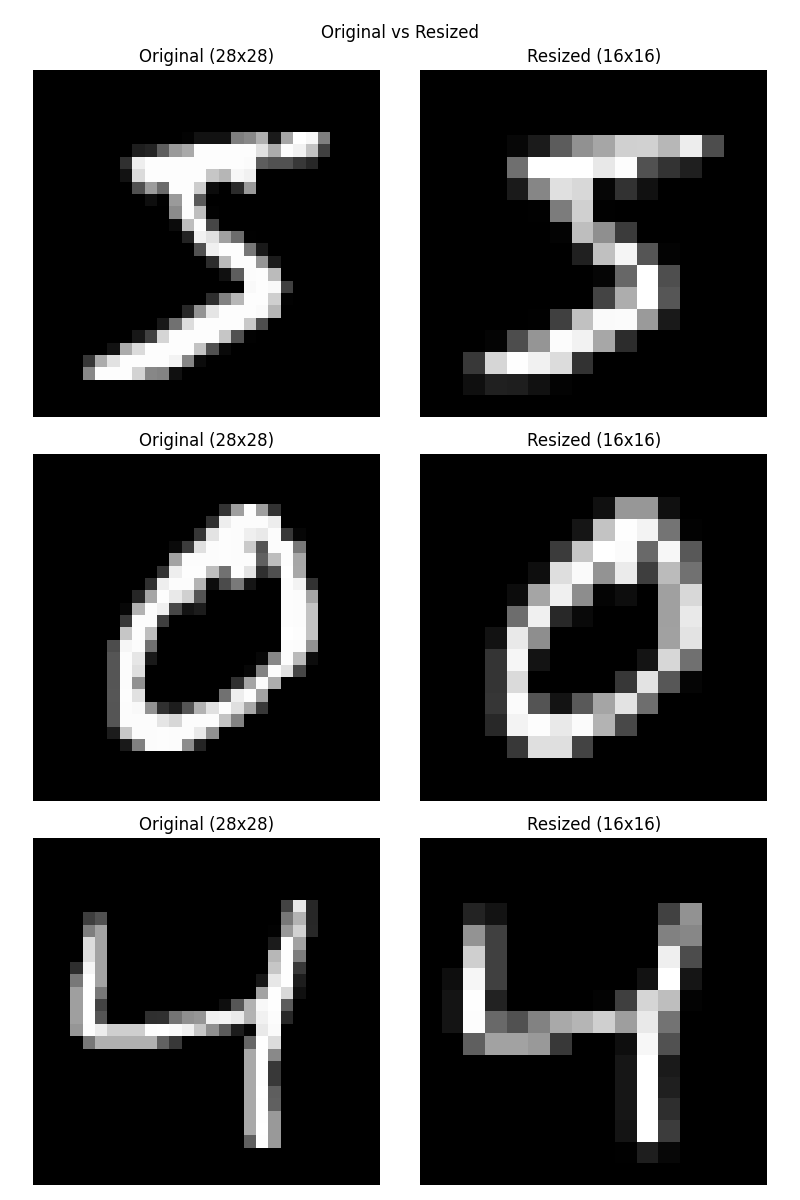
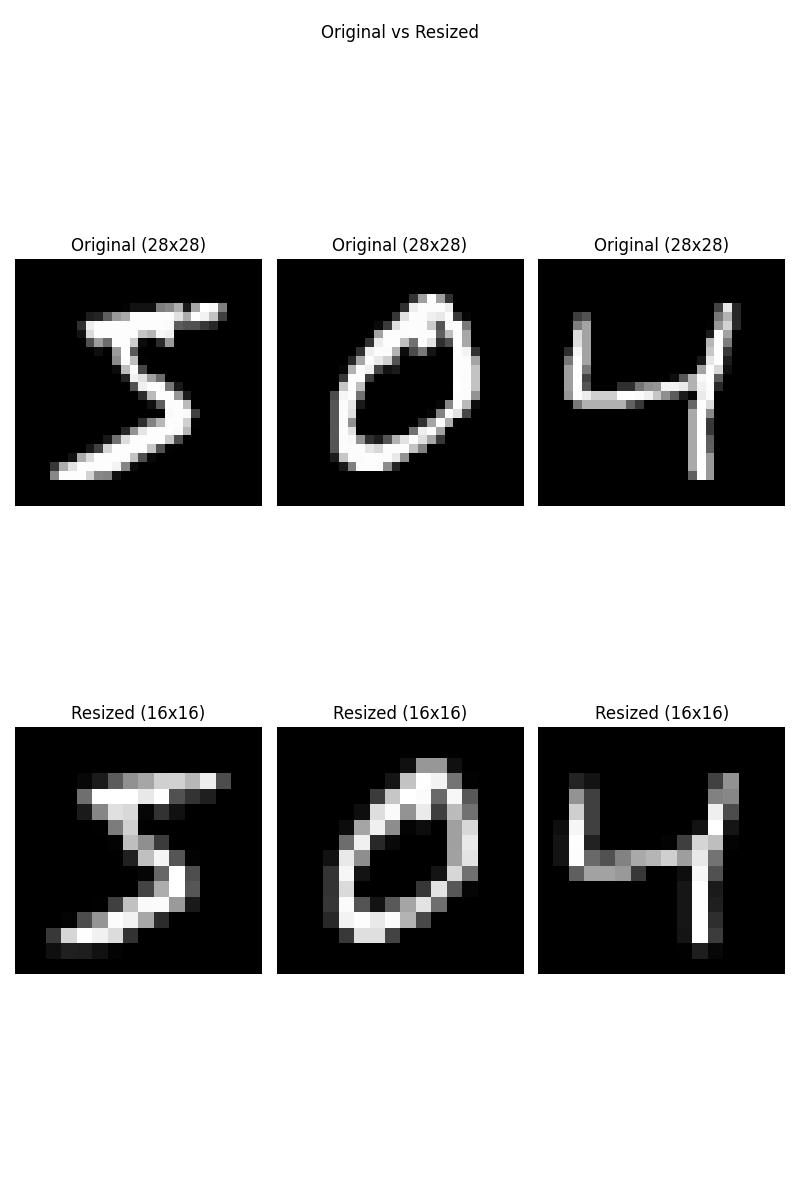
Change rows and colums

diff --git a/convolution_example/convolution_example.py b/convolution_example/convolution_example.py
@@ -4,18 +4,18 @@ import matplotlib.pyplot as plt
 
 def plot_comparison(original, resized, title="Comparison of Images"):
     num_images = len(original)
-    fig, axes = plt.subplots(num_images, 2, figsize=(8, 4 * num_images))
+    fig, axes = plt.subplots(2, num_images, figsize=(8, 4 * num_images))
 
     for i in range(num_images):
         # Mostrar imagen original
-        axes[i, 0].imshow(original[i], cmap="gray")
-        axes[i, 0].set_title("Original (28x28)")
-        axes[i, 0].axis("off")
+        axes[0, i].imshow(original[i], cmap="gray")
+        axes[0, i].set_title("Original (28x28)")
+        axes[0, i].axis("off")
 
         # Mostrar imagen redimensionada
-        axes[i, 1].imshow(resized[i], cmap="gray")
-        axes[i, 1].set_title("Resized (16x16)")
-        axes[i, 1].axis("off")
+        axes[1, i].imshow(resized[i], cmap="gray")
+        axes[1, i].set_title("Resized (16x16)")
+        axes[1, i].axis("off")
 
     plt.suptitle(title)
     plt.tight_layout()
